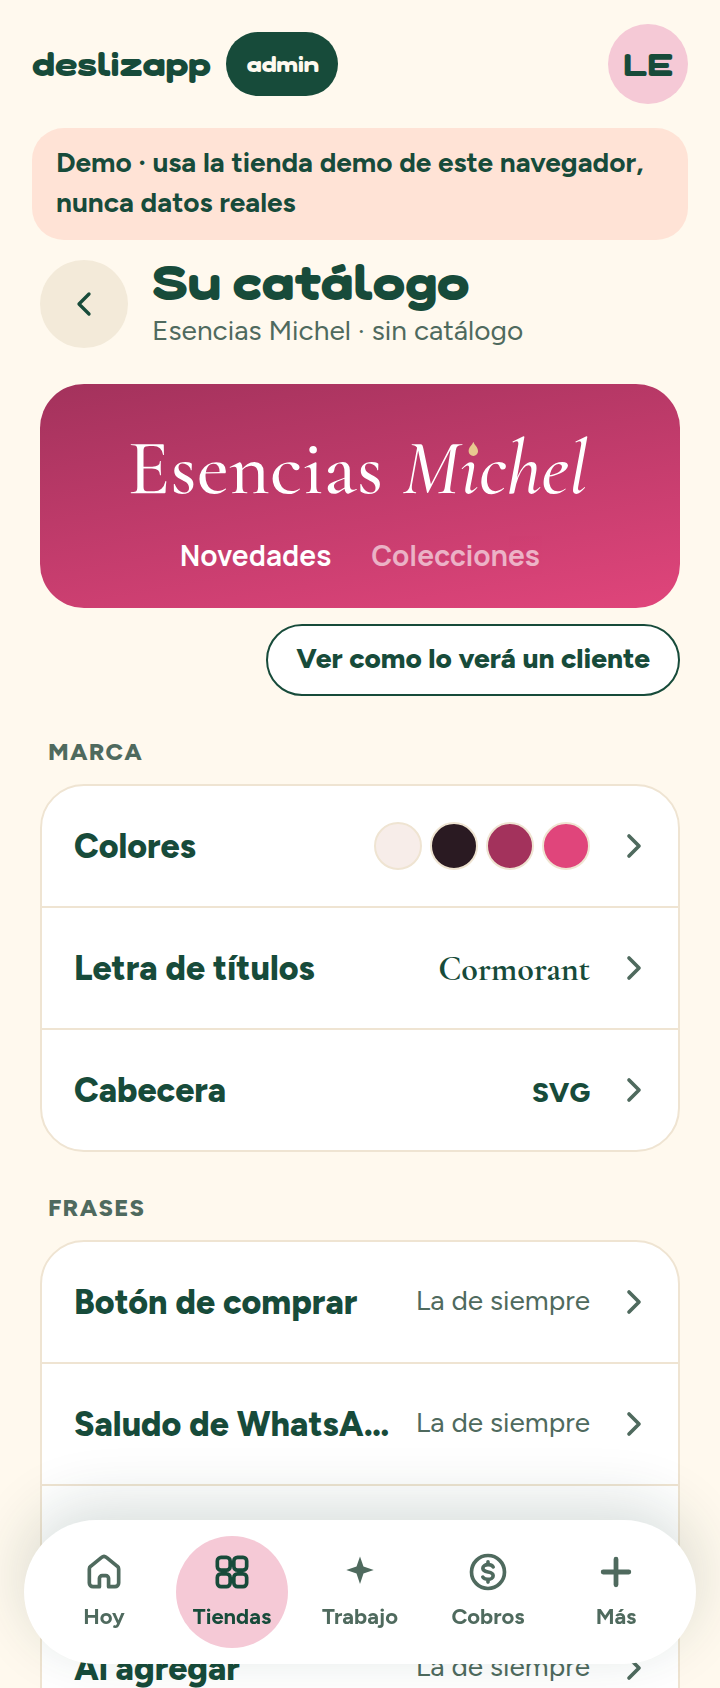
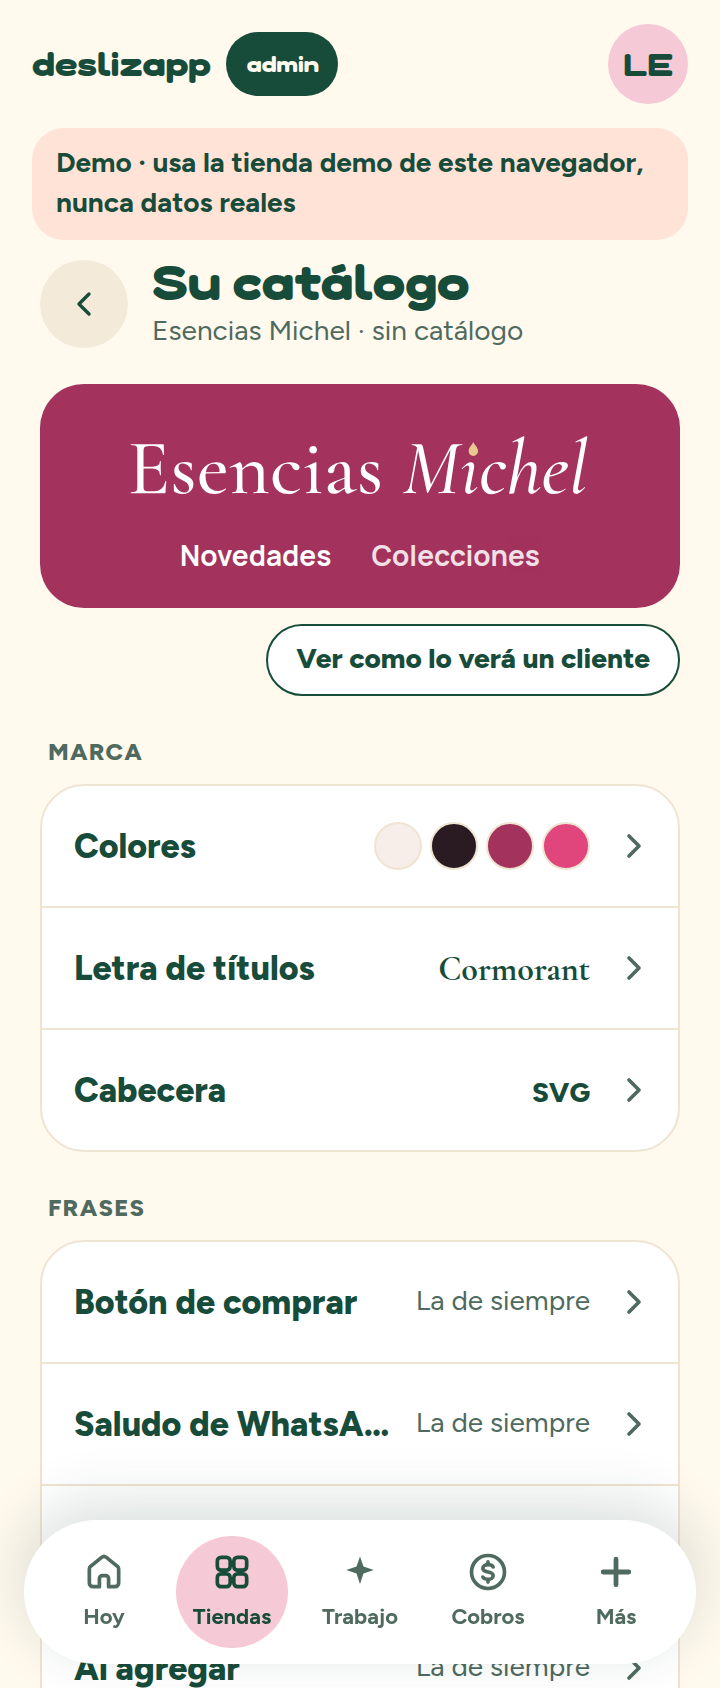
fix(admin): legibilidad en tema claro (saludo y fecha de Hoy, salud en Tiendas, vista previa de Personalizar); validación solo en claro
El modo oscuro no está diseñado para la app: se quitan su matriz y sus capturas de esta parte.

Claude-Session: https://claude.ai/code/session_01Fy9kgK1MY9DHN2jiqxw9h6

Changed region(s): [[0.0306, 0.2156, 0.9472, 0.3697]]

diff --git a/components/admin/pantalla-hoy.tsx b/components/admin/pantalla-hoy.tsx
@@ -12,7 +12,7 @@ import { EstadoAdmin } from "./estado";
 const dinero = (n: number) => new Intl.NumberFormat("es-DO", { style: "currency", currency: "DOP", maximumFractionDigits: 0 }).format(n);
 const saludoRD = () => {
   const h = Number(new Intl.DateTimeFormat("en", { timeZone: "America/Santo_Domingo", hour: "2-digit", hourCycle: "h23" }).format(new Date()));
-  return h < 5 || h >= 19 ? "noches" : h < 12 ? "días" : "tardes";
+  return h < 5 || h >= 19 ? "Buenas noches" : h < 12 ? "Buenos días" : "Buenas tardes";
 };
 
 function Asunto({ asunto, refrescar }: { asunto: AsuntoAdmin; refrescar: () => void }) {
@@ -71,8 +71,8 @@ export function PantallaHoy() {
   const plata = asuntos.filter(a => a.categoria === "plata").length;
   const fecha = new Intl.DateTimeFormat("es-DO", { timeZone: "America/Santo_Domingo", weekday: "long", day: "numeric", month: "long" }).format(new Date());
   return <>
-    <p className="text-secundario capitalize text-texto-secundario">{fecha}</p>
-    <h1 className="mt-2 font-display text-titulo-pantalla font-bold text-bosque">Buenas {saludoRD()}, Lewis.</h1>
+    <p className="text-secundario text-texto-secundario first-letter:uppercase">{fecha}</p>
+    <h1 className="mt-2 font-display text-titulo-pantalla font-bold text-bosque">{saludoRD()}, Lewis.</h1>
     <p className="mt-1 text-texto-secundario">{asuntos.length} {asuntos.length === 1 ? "cosa te espera" : "cosas te esperan"}. {plata} {plata === 1 ? "es" : "son"} de plata.</p>
     <EstadoAdmin cargando={cargando && !resumen} error={error} reintentar={() => void leer()} />
     {resumen && <div className="mt-5 grid grid-cols-2 gap-2.5">

diff --git a/components/admin/pantalla-tiendas.tsx b/components/admin/pantalla-tiendas.tsx
@@ -14,9 +14,9 @@ const filtros: { id: FiltroTiendas; texto: string }[] = [
   { id: "pausadas", texto: "Pausadas" },
 ];
 const salud: Record<string, { texto: string; punto: string }> = {
-  viva: { texto: "Viva", punto: "bg-exito" }, te_necesita: { texto: "Te necesita", punto: "bg-resalte" },
-  esperando_equipo: { texto: "Esperando al equipo", punto: "bg-borde-pastilla" },
-  se_enfria: { texto: "Se enfría", punto: "bg-mandarina" }, quieta: { texto: "Nueva", punto: "bg-borde-pastilla" },
+  viva: { texto: "Viva", punto: "bg-exito-texto" }, te_necesita: { texto: "Te necesita", punto: "bg-resalte" },
+  esperando_equipo: { texto: "Esperando al equipo", punto: "bg-accion" },
+  se_enfria: { texto: "Se enfría", punto: "bg-apagado" }, quieta: { texto: "Nueva", punto: "bg-borde-pastilla" },
 };
 
 export function PantallaTiendas() {
@@ -59,6 +59,6 @@ export function PantallaTiendas() {
         </Link></li>;
       })}
     </ul>}
-    {lista && <p className="mt-3 text-[12px] text-texto-secundario">● Viva　● Te necesita　● Se enfría　● Esperando al equipo</p>}
+    {lista && <p className="mt-3 flex flex-wrap gap-x-3 gap-y-1 text-[12px] text-texto-secundario">{(["viva", "te_necesita", "se_enfria", "esperando_equipo"] as const).map((k) => <span key={k} className="inline-flex items-center gap-1"><span aria-hidden="true" className={`size-2 rounded-full ${salud[k].punto}`} />{salud[k].texto}</span>)}</p>}
   </>;
 }

diff --git a/components/admin/pantalla-personalizar.tsx b/components/admin/pantalla-personalizar.tsx
@@ -172,7 +172,8 @@ export function PantallaPersonalizar({ tiendaId }: { tiendaId: string }) {
 
       <div
         className="relative mt-4 overflow-hidden rounded-radio-l px-4 pt-6 pb-4 text-center text-white"
-        style={{ background: `linear-gradient(170deg, ${tema.colores.accent}, ${tema.colores.heart})` }}
+        // Fondo liso del color de los botones: el tema ya lo deja en AA con letra blanca.
+        style={{ background: tema.colores.accent }}
         aria-label="Vista previa de la cabecera"
         role="img"
       >
@@ -184,7 +185,7 @@ export function PantallaPersonalizar({ tiendaId }: { tiendaId: string }) {
         )}
         <p className="mt-3 flex justify-center gap-5 text-secundario font-bold" style={{ fontFamily: familia(tema.fuentes.body) }}>
           <span>Novedades</span>
-          {secciones.colecciones !== false && <span className="opacity-60">Colecciones</span>}
+          {secciones.colecciones !== false && <span className="opacity-85">Colecciones</span>}
         </p>
       </div>
       <div className="mt-2 flex justify-end">

diff --git a/docs/validacion-admin-trabajo.md b/docs/validacion-admin-trabajo.md
@@ -15,9 +15,10 @@ según pida cada script). Handoff: [handoffs/admin-trabajo-claude.md](handoffs/a
 | `npm run build` | Pasa, **0 advertencias** (la base: 0). |
 | `npm run probar:admin-db` | Replay completo en Postgres 17.6 desechable de las 43 migraciones; pruebas nuevas `scripts/probar-admin-trabajo-db.sql` (lecturas solo admin, orden sin retirados, reservar/entregar una vez/devolver, doble envío, foto cambiada y producto retirado sin sustituir ni cobrar); **44 funciones** iguales en md5 y ACL a producción. |
 | `npm run revisar:migraciones` con la lista de Supabase | 43/43, **cero diferencias de versión**. |
-| `probar:admin-trabajo` (nuevo, build final) | **78/78**. Catálogos (empezar → 3 pasos → revisar, la tienda ve cada paso, saltos inválidos no ofrecidos, enlace inválido no cambia nada); taller (pedir reserva sin cobrar, doble toque en Entregar cobra una vez, foto cambia en producto y catálogo `?demo`, original en el historial, devolver con motivo sin cobrar y libera la reserva, la tienda ve tostada y motivo); Personalizar (teclado, Atrás cierra la hoja, contador, borrador tras recargar, orden, aviso AA, SVG malicioso rechazado, merge sin borrar la cabecera, catálogo `?demo` refleja botón y Búsqueda); acceso en el menú (demo → `/admin-demo`); 360/390/430 × claro/oscuro sin scroll horizontal, menos movimiento en 360, segmento con flechas. **Cero peticiones a Supabase.** |
+| `probar:admin-trabajo` (nuevo, build final; tema claro) | **76/76**. Catálogos (empezar → 3 pasos → revisar, la tienda ve cada paso, saltos inválidos no ofrecidos, enlace inválido no cambia nada); taller (pedir reserva sin cobrar, doble toque en Entregar cobra una vez, foto cambia en producto y catálogo `?demo`, original en el historial, devolver con motivo sin cobrar y libera la reserva, la tienda ve tostada y motivo); Personalizar (teclado, Atrás cierra la hoja, contador, borrador tras recargar, orden, aviso AA, SVG malicioso rechazado, merge sin borrar la cabecera, catálogo `?demo` refleja botón y Búsqueda); acceso en el menú (demo → `/admin-demo`); Hoy, Tiendas, ficha, Trabajo y Personalizar a 360/390/430 sin scroll horizontal, menos movimiento en 360, segmento con flechas; Hoy saluda bien, cada tienda tiene su punto de salud visible y la ficha abre Personalizar dentro de `/admin-demo`. **Cero peticiones a Supabase.** |
 | Regresiones del panel y catálogo demo (build de producción) | Pasan: `probar-admin-tiendas`, `agotados-y-likes`, `aviso-publico`, `contadores-catalogo`, `detalle-promos`, `eliminar-producto`, `espera-tienda`, `historial-ajustes-lista`, `historial-interno`, `hojas`, `inventario`, `pedido-catalogo-panel`, `producto` (ficha con fotos, el cambio más grande del panel), `proximamente`, `reemplazo-promos`, `teclado`. |
 | Scripts que piden `next dev` | Pasan en dev: `espera-fallos`, `visibilidad-catalogo`, `pedido-catalogo-transporte`, `ver-como-transporte` (12/12). |
+| Acceso por URL directa | Las rutas nuevas (`/admin/trabajo`, `/admin/tiendas/[id]/catalogo`) cuelgan del layout de `/admin`, que exige sesión y `soy_admin()` en el servidor (404 si no) y redirige si hay Ver como activo; ni cookies ni `localStorage` abren nada. Cada RPC nueva vuelve a exigir `soy_admin()` (replay: `no_admin` para no admins y anon sin permiso de ejecución). `probar-admin-tiendas`: `/admin` sin sesión da 404. |
 | Lecturas reales (sin escribir) | Ver §3. |
 
 **Fallo propio encontrado y corregido:** `probar-ver-como-transporte` falló en la rama (pasaba en la base) porque guarda su propia
@@ -27,6 +28,16 @@ falló por un import sin extensión en `lib/tienda/tema.ts` (carga nativa de Nod
 
 Al correr la batería, varios scripts reescriben capturas de otras funciones en `docs/capturas/`; se revirtieron y solo se
 agregan las de `docs/capturas/admin-trabajo/`.
+
+**Revisión del tema claro** (pantallas nuevas y Hoy, Tiendas, ficha): corregidos «Buenas días», la fecha «6 De Octubre», el
+punto «Viva» invisible y los colores/leyenda de salud en Tiendas, y el contraste de la vista previa de Personalizar. Detalle en
+[capturas/admin-trabajo/README.md](capturas/admin-trabajo/README.md). `probar-admin-tiendas` se ajustó al saludo nuevo y pasa.
+**Modo oscuro:** no se revisó ni se validó; no está diseñado para la app y queda pendiente de diseño para toda la app (la
+matriz de oscuro de `probar-admin-tiendas` es de la parte 2 y no se cuenta como validación).
+
+Los resultados de regresiones del panel/catálogo de esta tabla son de la corrida sobre el código del panel de `6e2a9b0`; los
+cambios posteriores solo tocan pantallas del admin (Hoy, Tiendas, Personalizar) y se volvieron a probar con
+`probar-admin-trabajo` y `probar-admin-tiendas`.
 
 ## 2. Fallos que ya existían (misma firma en la base)
 
@@ -56,7 +67,7 @@ las líneas ✓/✗/espera, sin tiempos).
   layout de `/admin`, que vuelve a autorizar en el servidor.
 - **Red del contenedor:** `*.supabase.co` y `*.vercel.app` están bloqueados por la política de red, así que tampoco se pudo
   abrir la preview desde aquí ni correr los scripts que leen el catálogo real.
-- **iPhone/Safari físico:** no disponible; los anchos, temas, teclado y Atrás se simularon en Chromium.
+- **iPhone/Safari físico:** no disponible; los anchos, el teclado y Atrás se simularon en Chromium (tema claro).
 
 ## 4. Pasos para Lewis en el iPhone (preview del PR)
 

diff --git a/docs/capturas/admin-trabajo/README.md b/docs/capturas/admin-trabajo/README.md
@@ -1,19 +1,25 @@
 # Capturas — Admin parte 3 (Trabajo, taller, Personalizar)
 
 Generadas por `scripts/probar-admin-trabajo.mjs` (con `CAPTURE_DIR`) sobre el build de producción local de la rama, en la
-**demo** (sin Supabase), Chromium 390 px salvo que el nombre diga otra cosa.
+**demo** (sin Supabase), Chromium 390 px salvo que el nombre diga otra cosa, **solo en el tema claro**: el modo oscuro de la
+app todavía no está diseñado (pendiente para toda la app), así que no hay capturas ni validación de oscuro.
 
 | Captura | Referencia | Comparación |
 |---|---|---|
 | `trabajo-catalogos-390-claro.png` | `referencias/admin/capturas/Trabajo.png` | Mismo orden: título, segmento Catálogos · Fotos con conteo, grupos en versalitas, tarjeta con avatar, rubro y «Hace N días», botones «Empezar» y «Ver sus fotos». La tarjeta que llega desde Hoy (`?tienda=`) va con anillo mandarina. La tienda de la demo no tiene conteo de productos en la lista admin, así que la línea dice rubro · tiempo. |
-| `trabajo-fotos-mesa-390-claro.png`, `trabajo-fotos-390-claro/oscuro.png` | `referencias/admin/capturas/Fotos.png` | Grupo por tienda con «N fotos · llegaron … · créditos», miniaturas (la abierta con anillo), mesa verde con Antes/Después punteado, «Bajar original» en blanco y «Entregar» mandarina, y la línea de abajo. Diferencias: «Devolver» va como enlace subrayado en la mesa (en la referencia solo se menciona en el texto); «La más vieja» solo aparece si hay más de una tienda. |
+| `trabajo-fotos-mesa-390-claro.png`, `trabajo-fotos-390-claro.png` | `referencias/admin/capturas/Fotos.png` | Grupo por tienda con «N fotos · llegaron … · créditos», miniaturas (la abierta con anillo), mesa verde con Antes/Después punteado, «Bajar original» en blanco y «Entregar» mandarina, y la línea de abajo. Diferencias: «Devolver» va como enlace subrayado en la mesa (en la referencia solo se menciona en el texto); «La más vieja» solo aparece si hay más de una tienda. |
 | `trabajo-fotos-devolver.png` | (no hay tablero) | Hoja de motivo con sugerencias y contador 200. |
-| `personalizar-390-claro.png`, `personalizar-360/390-oscuro.png` | `referencias/admin/capturas/Personalizar.png` | Encabezado «Su catálogo» con la tienda, vista previa de la cabecera con la letra y el SVG reales, filas Marca / Frases / Secciones / Productos con los mismos textos y valores a la derecha. «Vista previa» de la referencia es «Ver como lo verá un cliente» (texto del prompt). El subtítulo dice el estado del catálogo, no «lo que hoy se hace con SQL». |
+| `personalizar-390-claro.png`, `personalizar-360-claro.png`, `personalizar-430-claro.png` | `referencias/admin/capturas/Personalizar.png` | Encabezado «Su catálogo» con la tienda, vista previa de la cabecera con la letra y el SVG reales (fondo liso del color de botones, que el tema deja en AA con letra blanca; la referencia usa un degradado), filas Marca / Frases / Secciones / Productos con los mismos textos y valores a la derecha. «Vista previa» de la referencia es «Ver como lo verá un cliente» (texto del prompt). El subtítulo dice el estado del catálogo, no «lo que hoy se hace con SQL». |
 | `personalizar-colores-aviso.png` | — | Aviso AA al elegir un texto sin contraste. |
 | `panel-foto-en-el-taller.png`, `panel-foto-devuelta.png` | (panel, prompt §2) | Miniatura con anillo y sello «En el taller»; devuelta con sello, motivo y «Subir otra». |
 | `catalogo-demo-personalizado.png` | — | Catálogo `?demo` después de guardar (botón nuevo, sin Búsqueda). |
+| `hoy-390-claro.png`, `tiendas-390-claro.png`, `ficha-390-claro.png` | `Hoy.png`, `Tiendas.png`, `Tienda.png` | Revisión del tema claro de la parte 2 (ver abajo). |
 | `menu-tienda-acceso-demo.png` | — | En la demo, «Admin de la demo» lleva a `/admin-demo`. En real solo lo ve un admin activo (no capturado: requiere sesión real). |
 
-**Oscuro:** los títulos en `text-bosque` (verde fijo de la marca) se leen con poco contraste sobre el fondo oscuro. Es el mismo
-patrón de Hoy, la ficha y el marco de la parte 2; no se cambió aquí para no desviarse de esas pantallas. Queda anotado para
-Planning.
+**Revisión del tema claro (parte 2, corregido aquí):** Hoy decía «Buenas días» (ahora «Buenos días / Buenas tardes / Buenas
+noches») y la fecha salía «6 De Octubre» (`capitalize`; ahora solo la primera letra). En Tiendas el punto «Viva» no se veía
+(`bg-exito` no existe), «Te necesita» y «Se enfría» tenían el mismo naranja y la leyenda eran cuatro «●» del mismo color; ahora
+siguen el tablero (Viva verde `exito-texto`, Te necesita `resalte`, Se enfría `apagado`, Esperando al equipo `accion`) y la
+leyenda usa los mismos puntos. En la vista previa de Personalizar, «Colecciones» inactiva subió de 60 % a 85 % de opacidad.
+
+**Modo oscuro:** no se revisó ni se cambió. No está diseñado para la app; queda pendiente de diseño para toda la app.

diff --git a/docs/handoffs/admin-trabajo-claude.md b/docs/handoffs/admin-trabajo-claude.md
@@ -54,6 +54,13 @@ tiendas, productos, taller, créditos y personalización (localStorage `deslizap
 operación se relee el panel; después de una escritura del admin se devuelve **solo lo que cambió** campo a campo; las operaciones
 van en fila. Lo que es solo del admin (pagos, registro, tiendas de ejemplo de Hoy) sigue en memoria.
 
+## Tema claro y modo oscuro
+
+Revisión visual en el tema claro de las pantallas nuevas y de Hoy, Tiendas y ficha; se corrigieron problemas de legibilidad
+(saludo y fecha de Hoy, puntos y leyenda de salud en Tiendas, contraste de la vista previa de Personalizar). **El modo oscuro no
+está diseñado para la app:** no se revisó, no se cambiaron colores para él y no se presenta como validado. Queda pendiente de
+diseño para toda la app.
+
 ## Seguridad de las acciones
 
 - **Doble envío:** cada acción tiene un candado (`useRef`) además del botón en «cargando». Probado: doble toque en Entregar cobra 5
